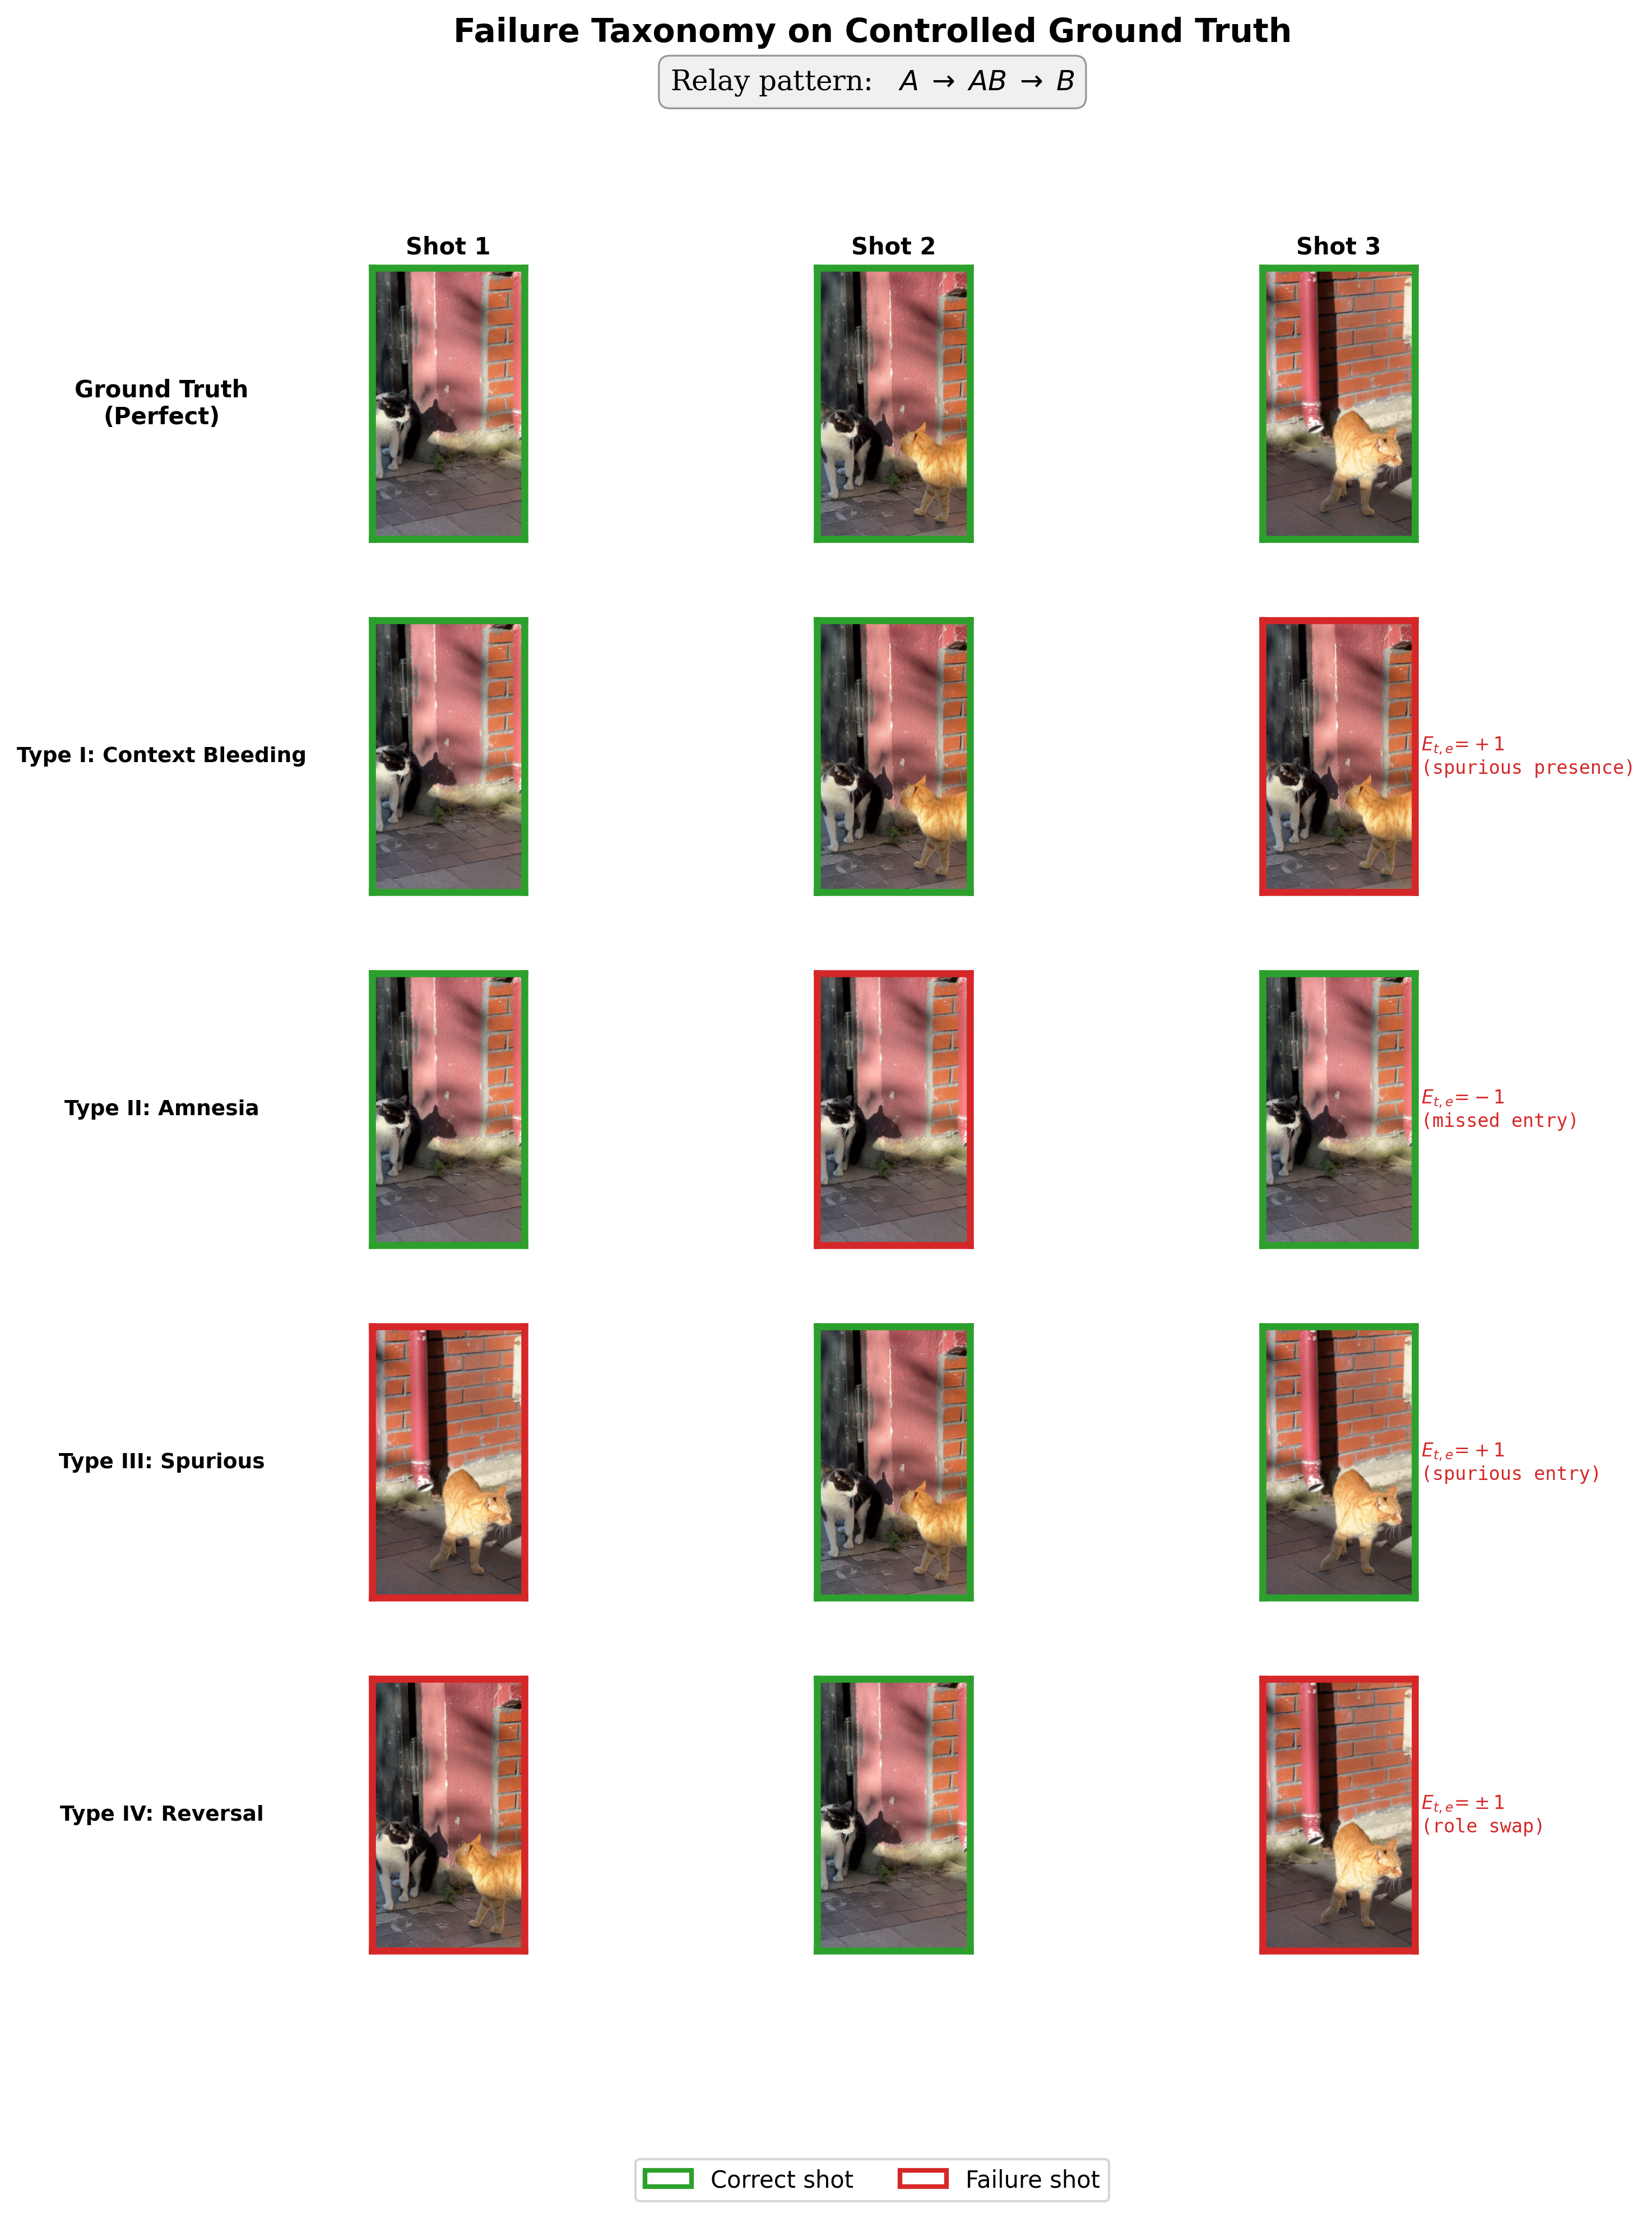
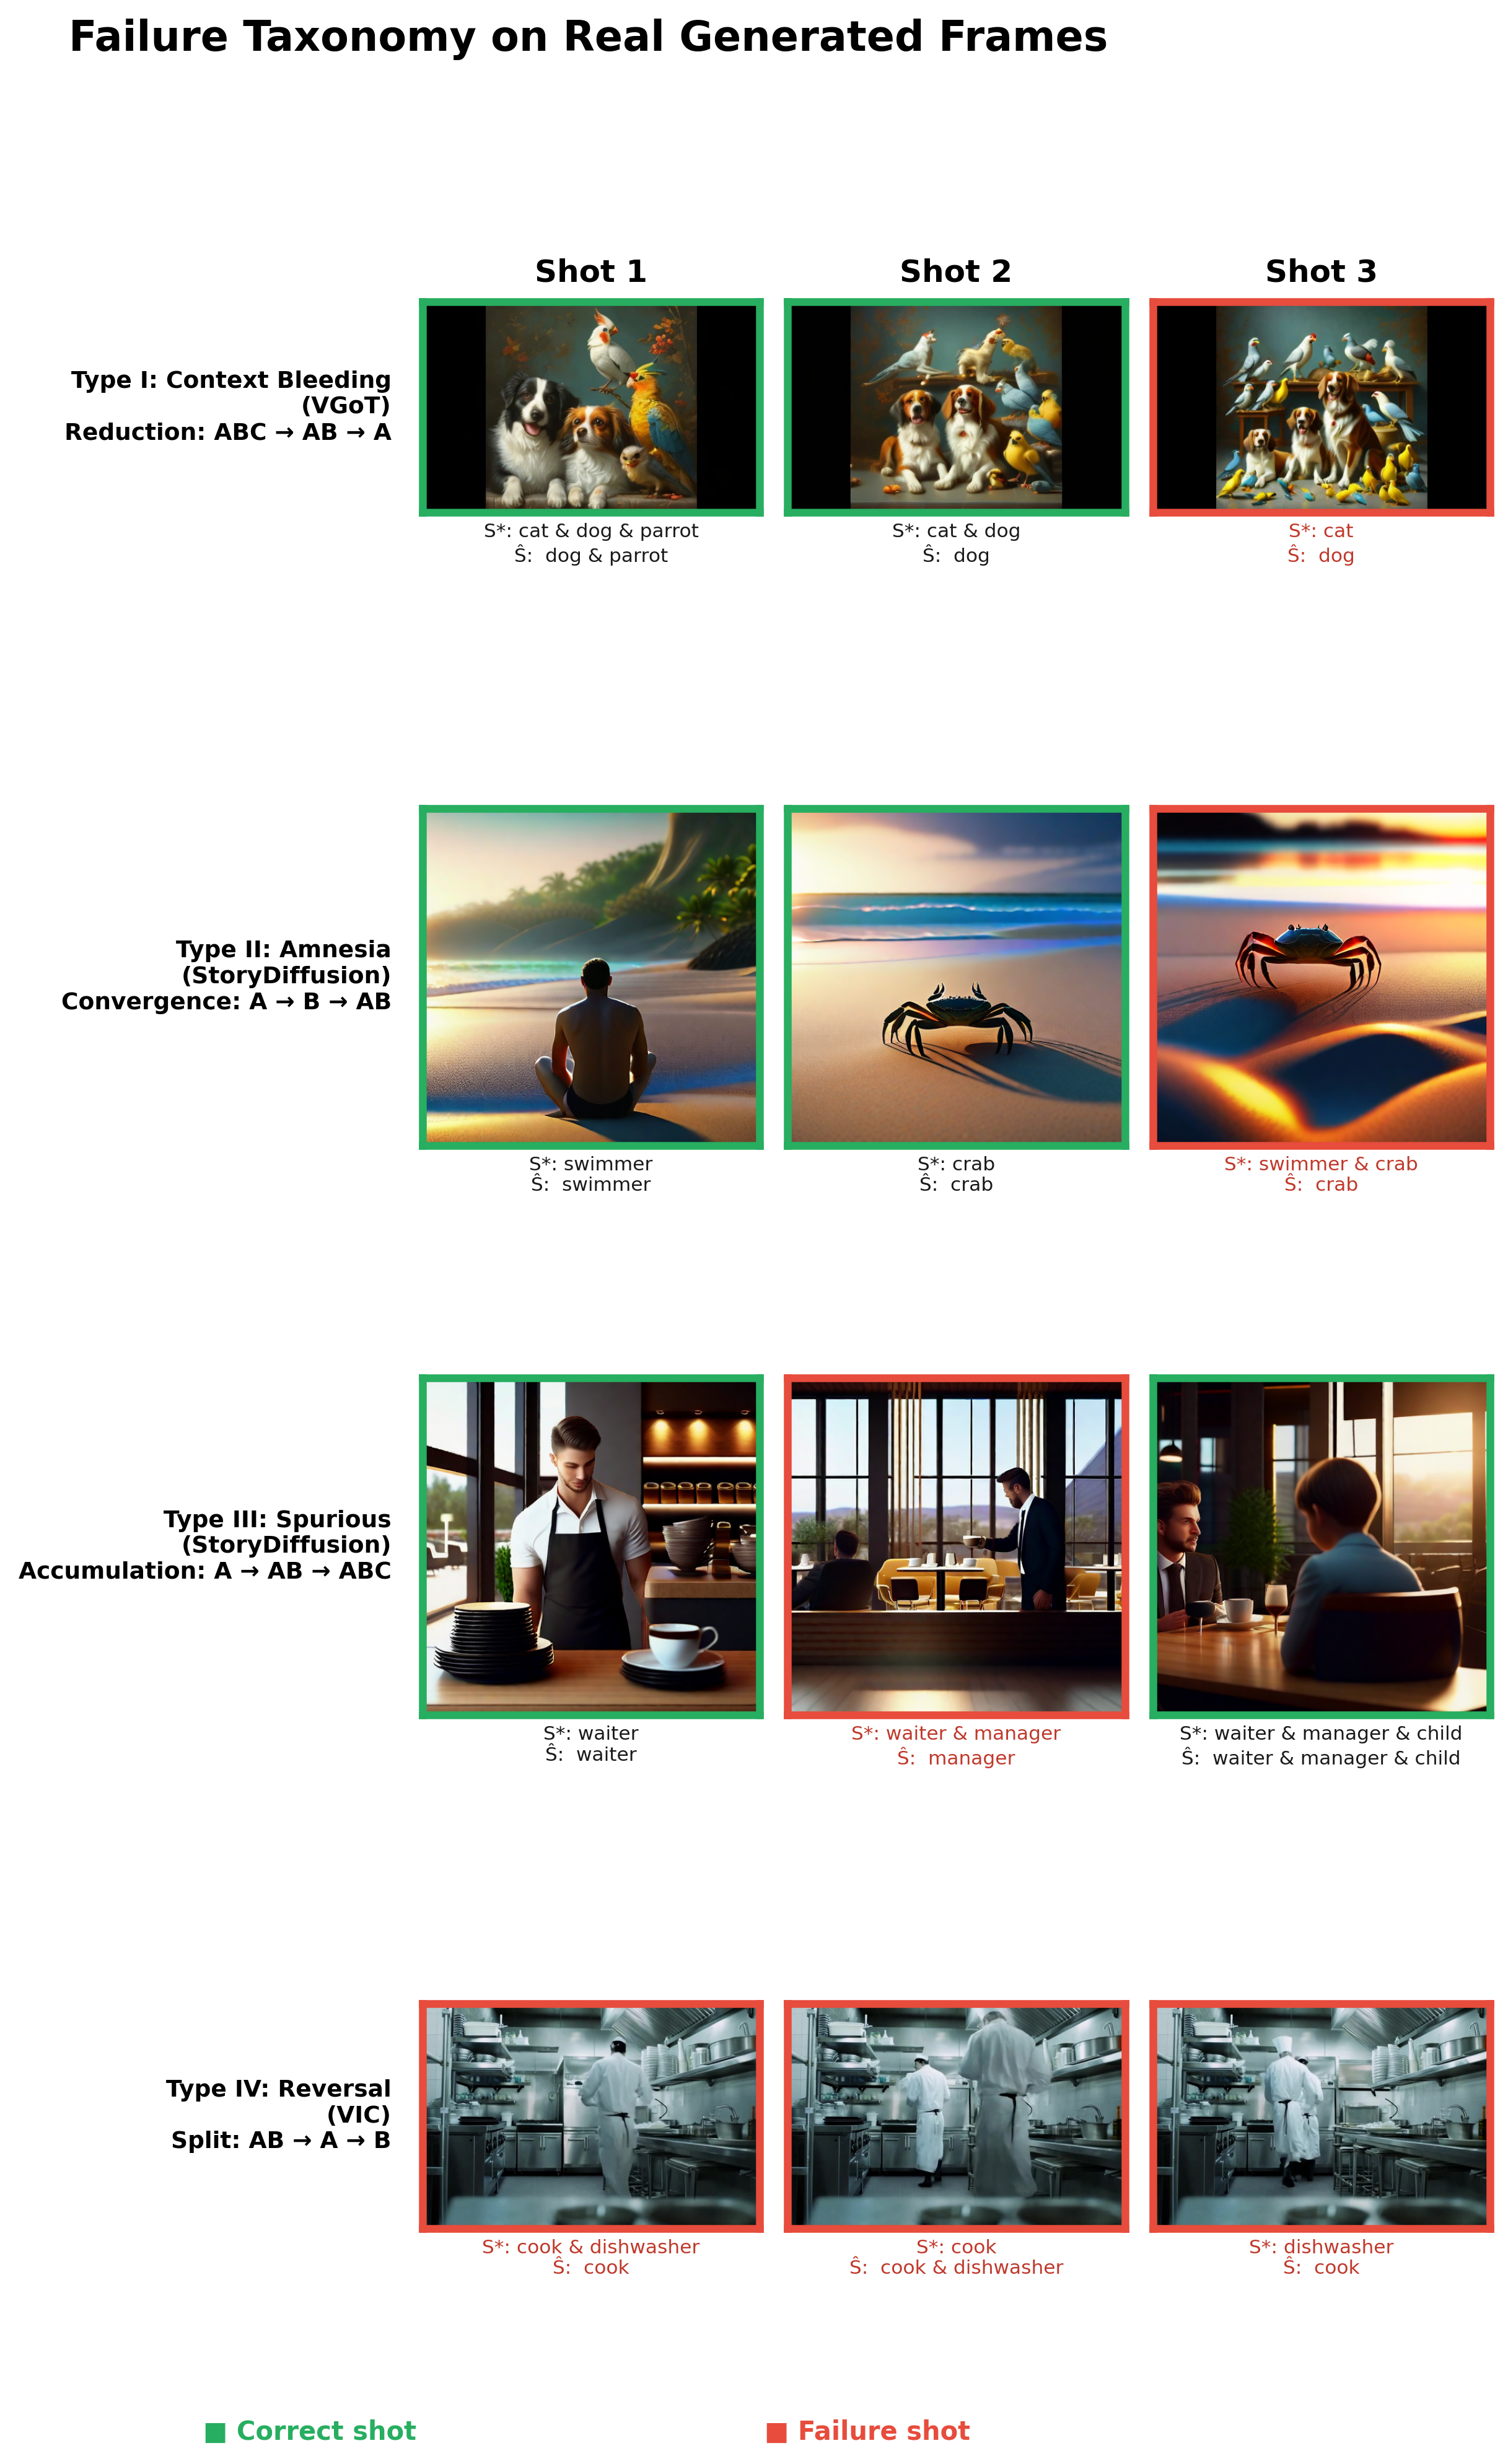
Replace qualitative figure with real generated frames
Swap controlled GT examples for actual model outputs that clearly
demonstrate each failure type:
- Type I (VGoT/Reduction): dog persists past exit
- Type II (StoryDiffusion/Convergence): swimmer fails to re-enter
- Type III (StoryDiffusion/Accumulation): waiter vanishes mid-sequence
- Type IV (VIC/Split): entity transitions reversed

diff --git a/main.tex b/main.tex
@@ -601,7 +601,7 @@ No failure            & \textbf{1.5} & 0.4 & 0.3 & 0.2 \\
 \begin{figure}[t]
 \centering
 \includegraphics[width=\columnwidth]{figures/qualitative_failures.png}
-\caption{Qualitative examples of the four failure types on real generated frames. Each row shows the prescribed narrative, the GT presence matrix $S^*$, and the generated frames with detected failures highlighted. \textbf{Type~I}: entity persists past its prescribed exit. \textbf{Type~II}: entity fails to appear at its prescribed entry. \textbf{Type~III}: unprescribed entity appears in a hold cell. \textbf{Type~IV}: observed transition is opposite to prescribed ($|E|=2$).}
+\caption{Qualitative examples of the four failure types on real generated frames. Each row shows the prescribed pattern with $S^*$ (ideal) and $\hat{S}$ (observed) entity presence; green/red borders indicate correct/failed shots. \textbf{Type~I} (VGoT, Reduction): \emph{dog} persists in Shot~3 where only \emph{cat} should remain. \textbf{Type~II} (StoryDiffusion, Convergence): \emph{swimmer} fails to re-enter in Shot~3. \textbf{Type~III} (StoryDiffusion, Accumulation): \emph{waiter} vanishes in Shot~2 despite being prescribed in all shots. \textbf{Type~IV} (VIC, Split): entity transitions are reversed---\emph{dishwasher} enters where it should exit and vice versa ($|E|{=}2$).}
 \label{fig:qualitative}
 \end{figure}
 